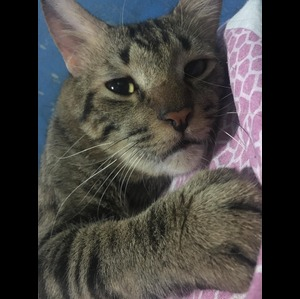
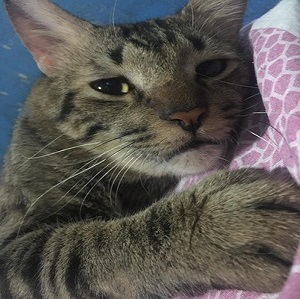
Title and Liit Picture
- Change Website Title from Tindog to PetBook
- Uploaded new version of liit's photo

diff --git a/index.html b/index.html
@@ -4,7 +4,7 @@
 <head>
     <meta charset="utf-8">
     <meta name="viewport" content="width=device-width, initial-scale=1">
-    <title>TinDog</title>
+    <title>PetBook</title>
 
     <!-- Google Fonts -->
     <link rel="preconnect" href="https://fonts.googleapis.com">
